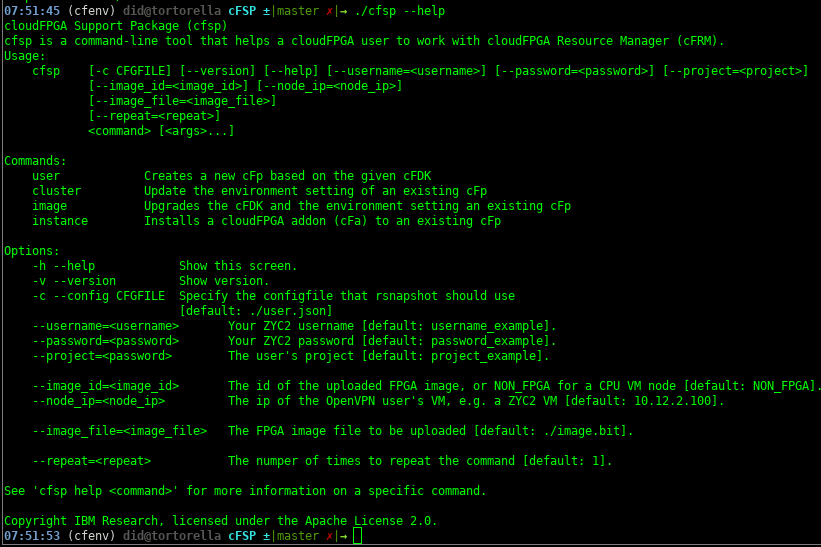
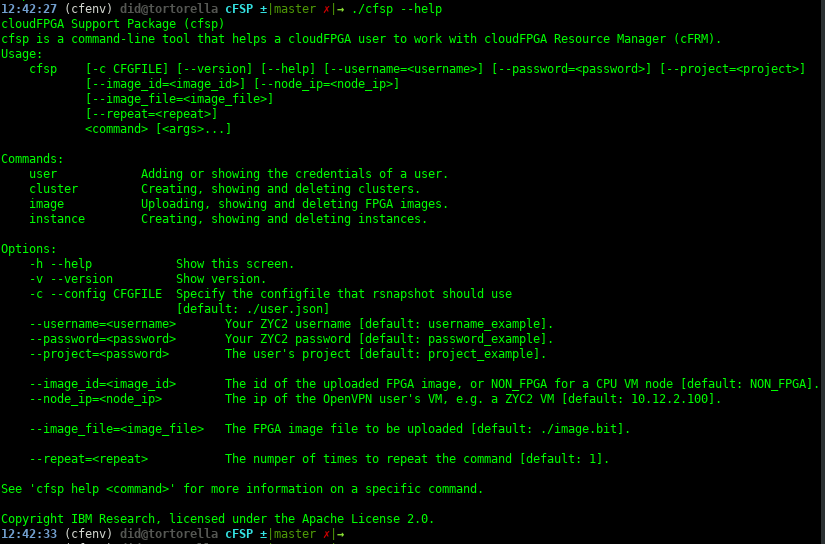
Updated help in commands and reeadme. Also deleting all keyword from cluster delete.

diff --git a/cFSPlib/cfsp_cluster.py b/cFSPlib/cfsp_cluster.py
@@ -76,37 +76,36 @@ def main(args):
             print("Exception when calling ClustersApi->cf_manager_rest_api_post_clusters: %s\n" % e)
             exit(-1)
     elif args['<args>'][0] == 'delete':
-        if (len(args['<args>']) == 2):
-            cluster_id = args['<args>'][1]
-            if cluster_id == 'all':
-                print("INFO: Really deleting all clusters ?")
-                if confirm_choice() == 'c':
-                    print("INFO: Confirmed deleting all clusters")
-                    try:
-                        api_response_get_in_delete = api_instance.cf_manager_rest_api_get_clusters(username, password)
-                        if(len(api_response_get_in_delete) > 0):
-                            for this_cluster in tqdm(api_response_get_in_delete):                                  
-                                # Delete a cluster
-                                print("INFO: Deleting cluster " + str(this_cluster.cluster_id) + " ... ")
-                                try:
-                                    api_instance.cf_manager_rest_api_delete_cluster(username, password, this_cluster.cluster_id)
-                                except ApiException as e_in_delete:
-                                    print("Exception when calling ClustersApi->cf_manager_rest_api_delete_cluster: %s\n" % e_in_delete)        
-                        else:
-                            print("INFO: No clusters to delete.")
-                    except ApiException as e_in_get:
-                        print("Exception when calling ClustersApi->cf_manager_rest_api_get_clusters: %s\n" % e_in_get)              
-                        exit(-1)
-                else:
-                    print ("INFO: Canceling deleting all clsuters")
-            else:
-                # Delete a cluster
-                print("INFO: Deleting cluster " + str(cluster_id) + " ... ")
+        if (len(args['<args>']) == 1):
+            print("INFO: Really deleting all clusters ?")
+            if confirm_choice() == 'c':
+                print("INFO: Confirmed deleting all clusters")
                 try:
-                    api_instance.cf_manager_rest_api_delete_cluster(username, password, cluster_id)
-                except ApiException as e:
-                    print("Exception when calling ClustersApi->cf_manager_rest_api_delete_cluster: %s\n" % e)
+                    api_response_get_in_delete = api_instance.cf_manager_rest_api_get_clusters(username, password)
+                    if(len(api_response_get_in_delete) > 0):
+                        for this_cluster in tqdm(api_response_get_in_delete):                                  
+                            # Delete a cluster
+                            print("INFO: Deleting cluster " + str(this_cluster.cluster_id) + " ... ")
+                            try:
+                                api_instance.cf_manager_rest_api_delete_cluster(username, password, this_cluster.cluster_id)
+                            except ApiException as e_in_delete:
+                                print("Exception when calling ClustersApi->cf_manager_rest_api_delete_cluster: %s\n" % e_in_delete)        
+                    else:
+                        print("INFO: No clusters to delete.")
+                except ApiException as e_in_get:
+                    print("Exception when calling ClustersApi->cf_manager_rest_api_get_clusters: %s\n" % e_in_get)              
                     exit(-1)
+            else:
+                print ("INFO: Canceling deleting all clsuters")
+        elif (len(args['<args>']) == 2):
+            cluster_id = args['<args>'][1]
+            # Delete a cluster
+            print("INFO: Deleting cluster " + str(cluster_id) + " ... ")
+            try:
+                api_instance.cf_manager_rest_api_delete_cluster(username, password, cluster_id)
+            except ApiException as e:
+                print("Exception when calling ClustersApi->cf_manager_rest_api_delete_cluster: %s\n" % e)
+                exit(-1)
         else:
             exit(print("ERROR: invalid arguments provided in cfsp cluster delete. Aborting..."))
 

diff --git a/README.md b/README.md
@@ -32,6 +32,20 @@ pip install -r requirements.txt
 
 ## Getting Started
 
+### [ToC]
+
+* [Getting help](#getting-help).
+* [Setting up the credentials file for a user](#setting-up-the-credentials-file-for-a-user).
+* [Show the credentials of a user](#show-the-credentials-of-a-user).
+* [Load new credentials for a user](#load-new-credentials-for-a-user).
+* [Upload an image](#upload-an-image).
+* [Get an image](#get-an-image).
+* [Create a cluster](#create-a-cluster).
+* [Get a cluster](#get-a-cluster).
+* [Delete a cluster](#delete-a-cluster).
+* [Create a cluster](#create-a-cluster).
+
+
 ### Getting help
 
 Please follow the [installation procedure](#installation--usage) and then run the following:
@@ -151,10 +165,10 @@ Assuming you want to delete the previously created cluster with id `259`
 
 ![cfsp-cluster-delete](doc/img/8.png)
 
-> **_NOTE:_** You may delete all uploaded clusters of a user by providing the keyword `all` for a cluster id, e.g.
+> **_NOTE:_** You may delete all uploaded clusters of a user by not providing a specific cluster id, e.g.
 
 ```bash
-./cfsp cluster delete all
+./cfsp cluster delete
 ```
 
 ![cfsp-cluster-delete-all](doc/img/9.png)
